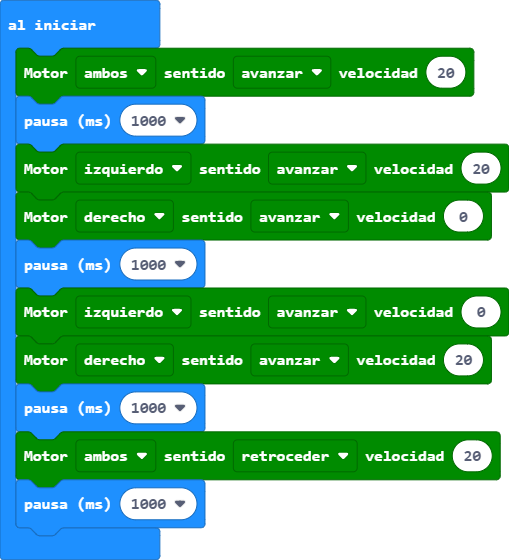
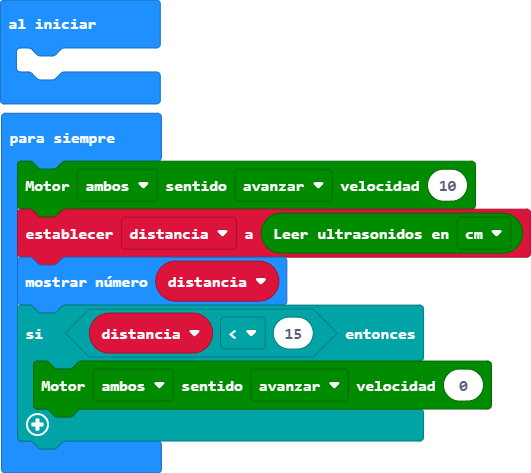
El coche se para cuando la distancia a un objeto es <15 cm

diff --git a/main.ts b/main.ts
@@ -1,10 +1,9 @@
-maqueen.motorRun(maqueen.Motors.All, maqueen.Dir.CW, 20)
-basic.pause(1000)
-maqueen.motorRun(maqueen.Motors.M1, maqueen.Dir.CW, 20)
-maqueen.motorRun(maqueen.Motors.M2, maqueen.Dir.CW, 0)
-basic.pause(1000)
-maqueen.motorRun(maqueen.Motors.M1, maqueen.Dir.CW, 0)
-maqueen.motorRun(maqueen.Motors.M2, maqueen.Dir.CW, 20)
-basic.pause(1000)
-maqueen.motorRun(maqueen.Motors.All, maqueen.Dir.CCW, 20)
-basic.pause(1000)
+let distancia = 0
+basic.forever(function () {
+    maqueen.motorRun(maqueen.Motors.All, maqueen.Dir.CW, 10)
+    distancia = maqueen.Ultrasonic(PingUnit.Centimeters)
+    basic.showNumber(distancia)
+    if (distancia < 15) {
+        maqueen.motorRun(maqueen.Motors.All, maqueen.Dir.CW, 0)
+    }
+})
